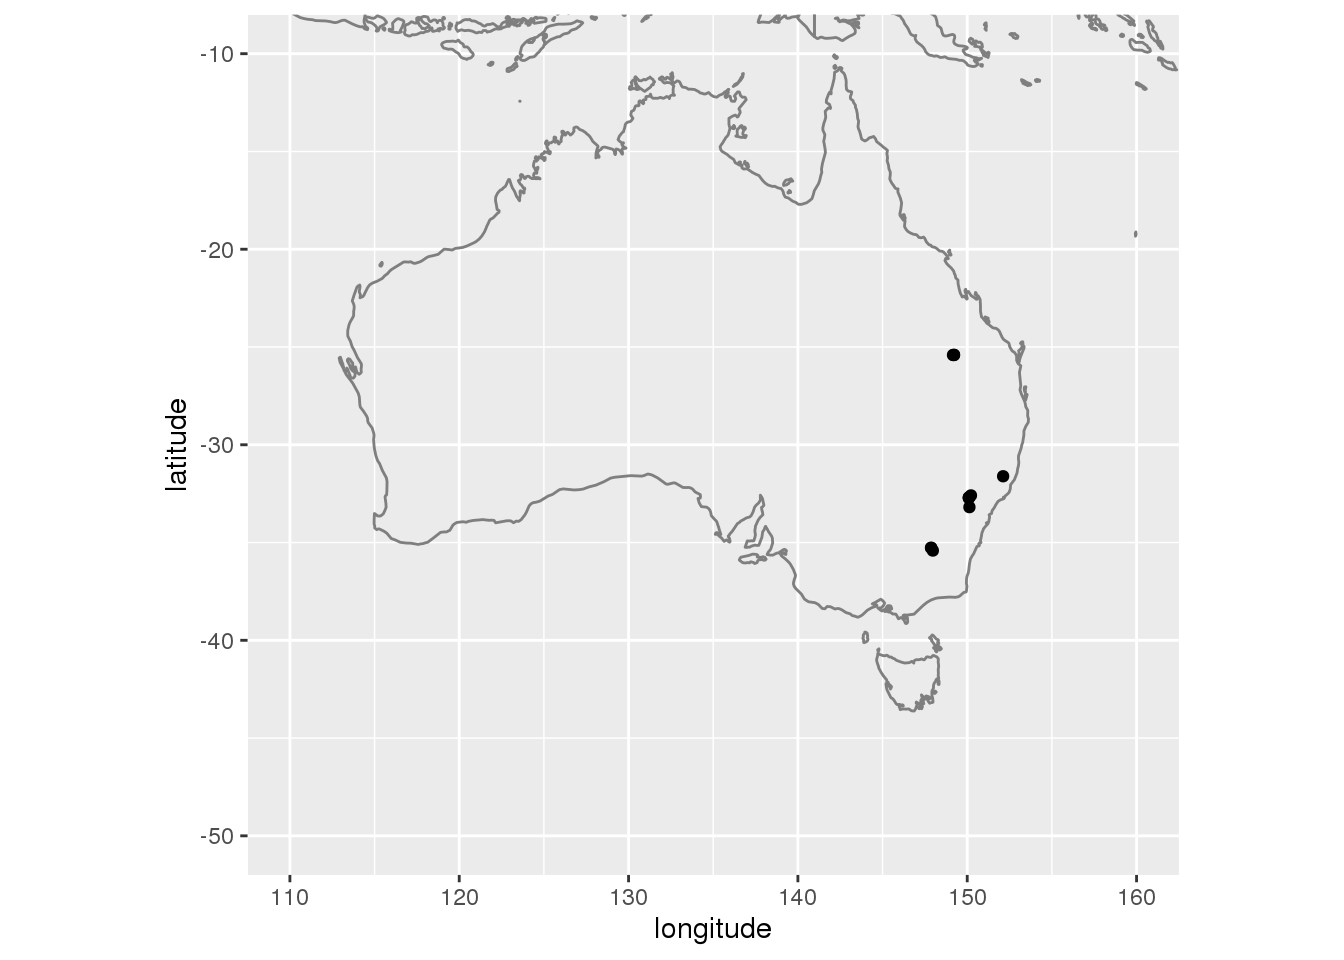
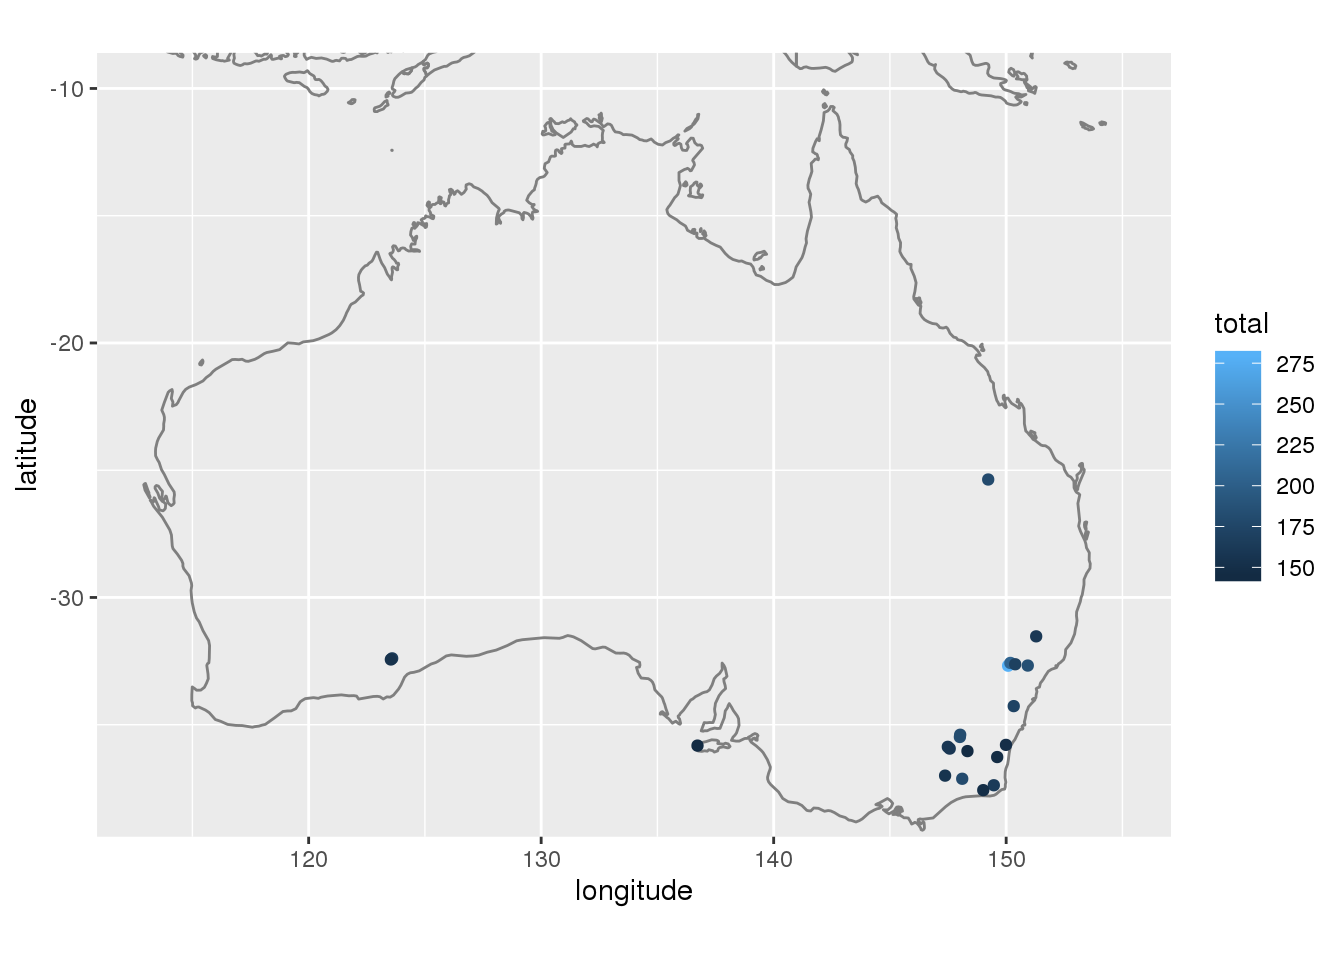
Test

diff --git a/content/post/2020-12-13-australia-fires/index.html b/content/post/2020-12-13-australia-fires/index.html
@@ -43,23 +43,54 @@ xlab(&quot;City&quot;) +
 ggtitle(&quot;Number of Nearby Fires vs Cities&quot;)</code></pre>
 <p><img src="index_files/figure-html/unnamed-chunk-3-1.png" width="672" /></p>
 <p>There were fires only in three out of the six cities recorded, and it seems Sydney has by far the greatest number of nearby fires, having almost double the number of Perth and Melbourne.</p>
+<p>Fires %&gt;%</p>
+<p>mutate(longitude = round(longitude,digits=1),latitude=round(latitude,digits=1))%&gt;%</p>
+<p>group_by(longitude,latitude)%&gt;%</p>
+<p>summarize(total = n())%&gt;%</p>
+<p>ungroup()%&gt;%</p>
+<p>slice_max(total, n = 20)%&gt;%</p>
+<p>ggplot(aes(longitude,latitude))+</p>
+<p>borders(“world”)+</p>
+<p>coord_quickmap(xlim = 145:155,ylim = -38:-20)+</p>
+<p>geom_point(position = “dodge”)</p>
 </div>
 <div id="question-2" class="section level1">
 <h1>Question 2:</h1>
 <p>Where have fires happened the most? To determine this, I will round the longitudes and latitudes of all fires to two decimal places and count the 10 areas with the highest number of fires.</p>
 <pre class="r"><code>Fires %&gt;% 
-mutate(longitude = round(longitude, digits = 2), latitude = round(latitude, digits = 2)) %&gt;% 
+mutate(longitude = round(longitude, digits = 1), latitude = round(latitude, digits = 1)) %&gt;% 
     
 group_by(longitude, latitude) %&gt;% 
 summarize(total = n()) %&gt;% 
 ungroup() %&gt;% 
-slice_max(total, n = 10) %&gt;% 
-ggplot(aes(longitude, latitude)) + 
+slice_max(total, n = 20) %&gt;% 
+ggplot(aes(longitude, latitude, color = total)) + 
 borders(&quot;world&quot;) + 
-coord_quickmap(xlim = 110:160, ylim = -50:-10) + 
-geom_point()</code></pre>
-<pre><code>## `summarise()` regrouping output by &#39;longitude&#39; (override with `.groups` argument)</code></pre>
+coord_quickmap(xlim = 113:155, ylim = -38:-10) + 
+geom_point(position = &quot;jitter&quot;)</code></pre>
 <p><img src="index_files/figure-html/unnamed-chunk-4-1.png" width="672" /></p>
+<pre class="r"><code>Fires %&gt;% 
+mutate(longitude = round(longitude, digits = 1), latitude = round(latitude, digits = 1)) %&gt;% 
+    
+group_by(longitude, latitude) %&gt;% 
+summarize(total = n()) %&gt;% 
+ungroup() %&gt;% 
+slice_max(total, n = 20) %&gt;% 
+rename(`Total Fires In Area` = &quot;total&quot;)</code></pre>
+<pre><code>## # A tibble: 21 x 3
+##    longitude latitude `Total Fires In Area`
+##        &lt;dbl&gt;    &lt;dbl&gt;                 &lt;int&gt;
+##  1      150.    -32.7                   279
+##  2      150.    -32.6                   207
+##  3      151.    -32.7                   185
+##  4      148     -35.5                   183
+##  5      148     -35.4                   181
+##  6      148.    -37.1                   179
+##  7      149.    -25.4                   179
+##  8      150.    -34.3                   172
+##  9      150.    -32.6                   169
+## 10      124.    -32.4                   163
+## # … with 11 more rows</code></pre>
 <p>It seems the areas with the highest number of fires are all near the eastern coast of Australia.</p>
 </div>
 <div id="question-3" class="section level1">
